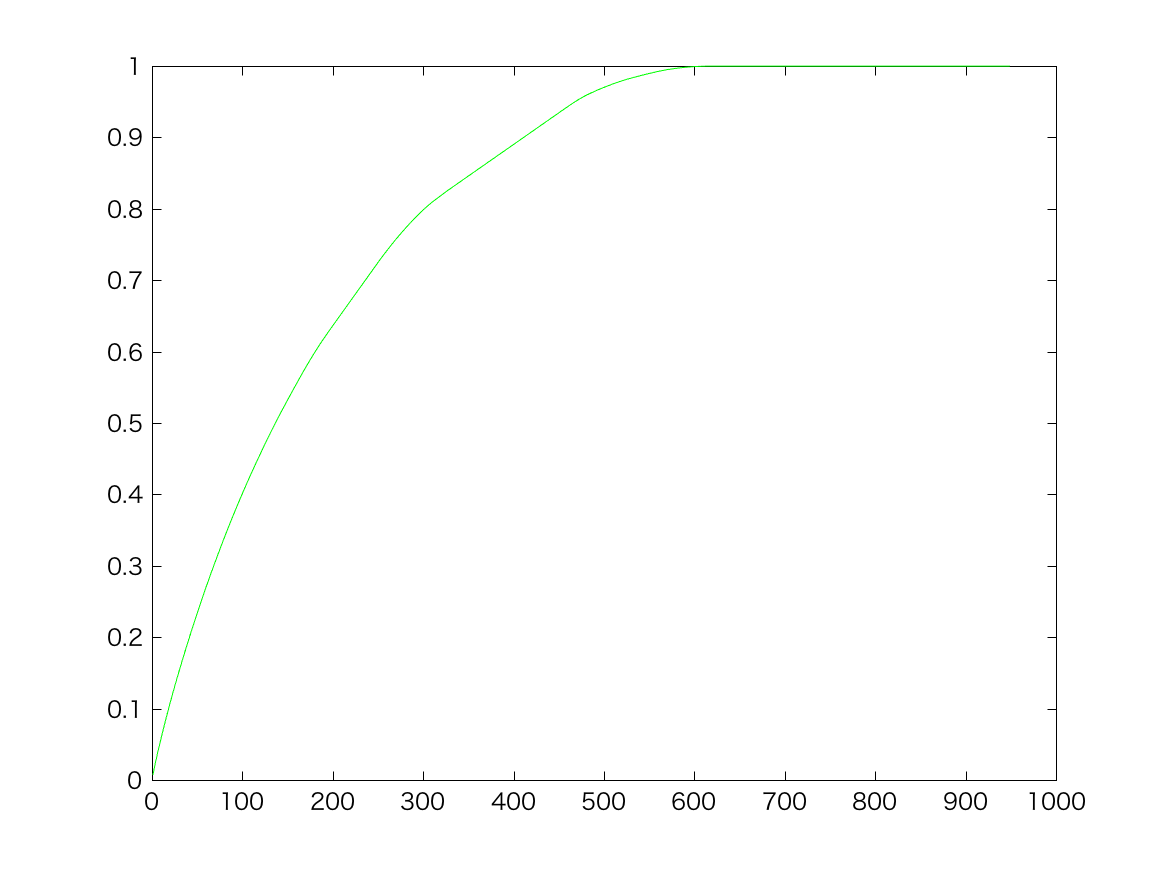
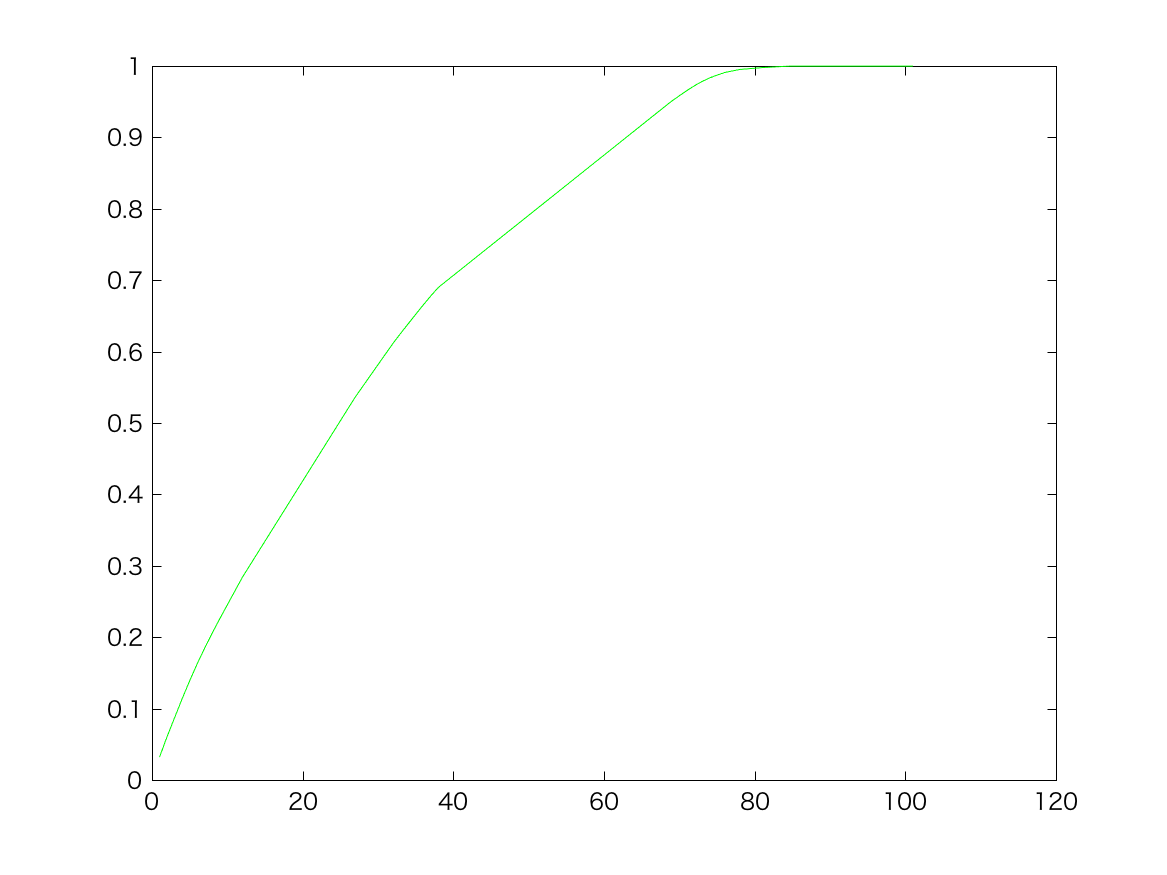
output neuronのみPCAして作図． 次・・output neuronで本当に出来ているか確認 　　　5000timeでやってみる

diff --git a/pca_outputneurons/script.m b/pca_outputneurons/script.m
@@ -4,7 +4,7 @@ yoked=['NY'];   %Yoked or NY
 stdp=['STDP'];
 id=['170222'];
 feedbacktime=1;
-iterate=2000;
+iterate=2;
 speinplate=0.5;
 debug=1;
 
@@ -23,7 +23,7 @@ for p=[0.1,0.075,0.025,0.01]
 
    for i=1:d
         %conduct babbling
-           display(['firing_data/','p=',num2str(p),'_',yoked,'_',stdp,'/babble_daspnet_firings_',num2str(i),'_',id,'_',num2str(iterate),'_reinforce_100_4_',yoked,'_1_',num2str(feedbacktime),'_',num2str(p),'_',num2str(speinplate),'_',stdp,'_2000.txt']);
+           display(['firing_data/','p=',num2str(p),'_',yoked,'_',stdp,'/babble_daspnet_firings_',num2str(i),'_',id,'_',num2str(iterate),'_reinforce_100_4_',yoked,'_1_',num2str(feedbacktime),'_',num2str(p),'_',num2str(speinplate),'_',stdp,'_5000.txt']);
 
            y=plot_firings([num2str(i),'_',id,'_',num2str(iterate),'_reinforce_100_4_',yoked,'_1_',num2str(feedbacktime),'_',num2str(p),'_',num2str(speinplate),'_',stdp],iterate,'reinforce',1:100,4,yoked,1,feedbacktime,p,speinplate,stdp,debug);
 

diff --git a/pca_outputneurons/dimention.m b/pca_outputneurons/dimention.m
@@ -18,11 +18,14 @@ for i=1:1000
     
 end
 
-Firings=Firings.';
+outFirings=Firings(200:300,:);  %
+outFirings=outFirings.'; %invert to caliculate pca
+
+%Firings=Firings.';
 
 %Firings=zscore(Firings);
 
-[COEFF,SCORE,latent] = pca(Firings);
+[COEFF,SCORE,latent] = pca(outFirings);
 
 latentsize=size(latent);
 latent(950:latentsize(1,1),:)=[];

diff --git a/pca_outputneurons/plot_firings.m b/pca_outputneurons/plot_firings.m
@@ -214,7 +214,7 @@ for sec=1:2 % T is the duration of the simulation in seconds.
     decaysmoothpos=zeros(1,1000);
 datatime=1;
 
-    for t=1:1000                         % Millisecond timesteps
+    for t=1:5000                         % Millisecond timesteps
 
         %Random Thalamic Input.
         I=13*(rand(N,1)-0.5);
